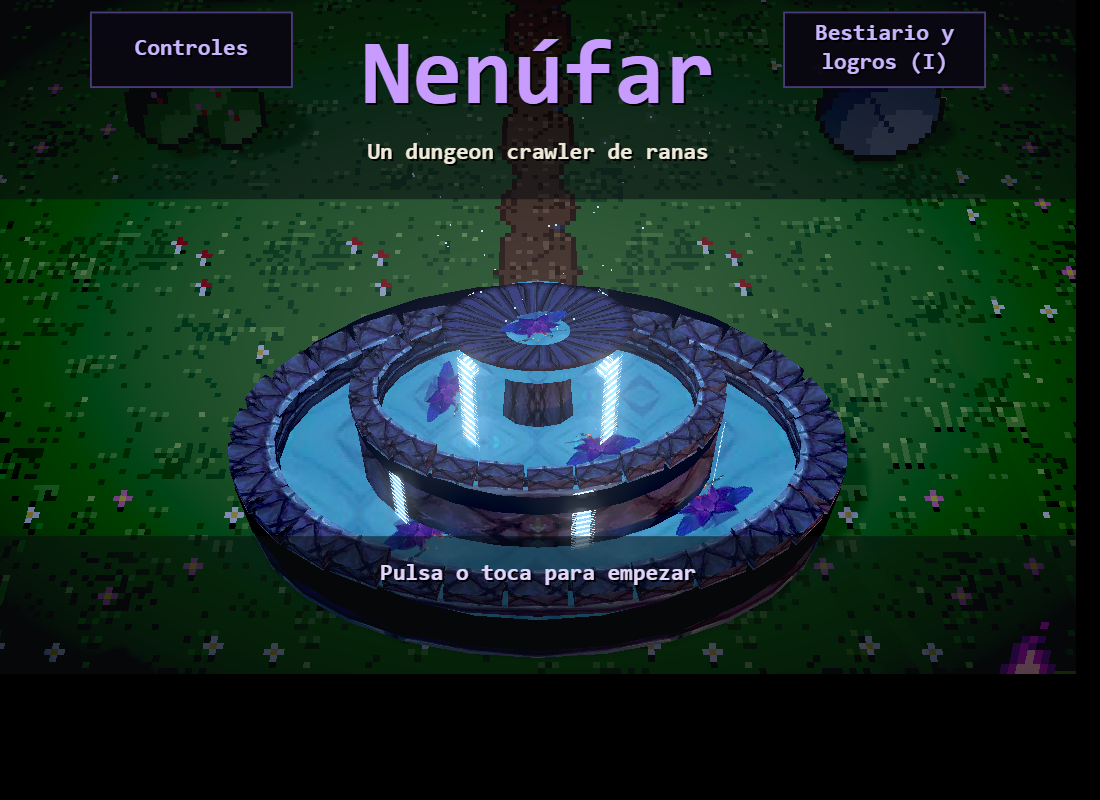
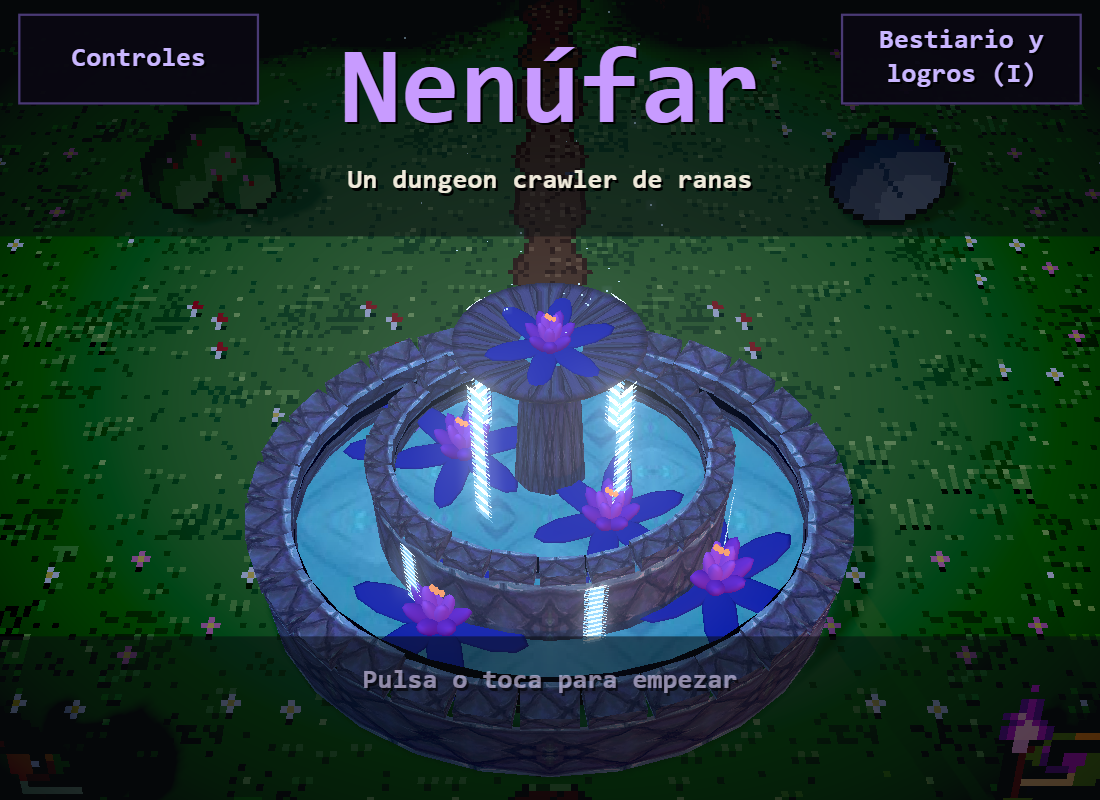
Fuente: nenúfares con pétalos en 3D, taza más alta, piedra con luz propia y base más redonda

diff --git a/src/render/mundo/fuente.ts b/src/render/mundo/fuente.ts
@@ -6,6 +6,10 @@ type AjustesFuente = Hd2dJson['fuente'];
 
 const BASE = import.meta.env.BASE_URL;
 const CARAS = 28;
+/** Luz propia de la piedra: sin ella, la pared que da a la sombra se ve negra. */
+const LUZ_PIEDRA = 0x2a3048;
+/** Altura de la taza de arriba, y de su agua. */
+const ALTO_TAZA = 1.12;
 
 /** Textura de `public/assets/sprites/fuente/` (recortes de la imagen de referencia), que se repite sin costuras. */
 function cargar(nombre: string, repetirX: number, repetirY: number): THREE.Texture {
@@ -49,13 +53,18 @@ export function crearFuente(
   // Los pisos se estiran a lo alto: vista desde arriba, la fuente se leía como una piscina baja.
   grupo.scale.y = 1.4;
   const piedra = new THREE.MeshLambertMaterial({
-    map: cargar('piedra', 4, 1),
+    map: cargar('piedra', 8, 1),
+    emissive: LUZ_PIEDRA,
     side: THREE.DoubleSide,
   });
-  const borde = new THREE.MeshLambertMaterial({ map: cargar('piedra', 0.5, 0.5) });
+  const borde = new THREE.MeshLambertMaterial({
+    map: cargar('piedra', 0.5, 0.5),
+    emissive: LUZ_PIEDRA,
+  });
   const juntas = new THREE.MeshLambertMaterial({ color: 0x1c1e2c });
   const piedraTaza = new THREE.MeshLambertMaterial({
     map: cargar('piedra', 10, 0.3),
+    emissive: LUZ_PIEDRA,
     side: THREE.DoubleSide,
   });
   const texAgua = cargar('agua', 3, 2);
@@ -150,9 +159,9 @@ export function crearFuente(
 
   // Columna y taza de arriba
   const columna = poner(
-    new THREE.Mesh(new THREE.CylinderGeometry(0.1, 0.14, 0.52, 10), piedra),
+    new THREE.Mesh(new THREE.CylinderGeometry(0.1, 0.14, ALTO_TAZA - 0.43, 10), piedra),
     0,
-    0.69,
+    0.43 + (ALTO_TAZA - 0.43) / 2,
     0,
   );
   columna.scale.set(rx * 0.9, 1, rz * 0.9);
@@ -171,11 +180,11 @@ export function crearFuente(
       piedraTaza,
     ),
     0,
-    0.9,
+    ALTO_TAZA,
     0,
   );
   taza.scale.set(rx * 0.85, 1, rz * 0.85);
-  const aguaC = 0.99;
+  const aguaC = ALTO_TAZA + 0.09;
   const laminaC = poner(
     new THREE.Mesh(new THREE.CircleGeometry(0.27, 20), agua),
     0,
@@ -205,20 +214,86 @@ export function crearFuente(
       grupo.add(m);
     }
   };
-  cascada(0.3, 1.0, aguaB, 4, Math.PI / 4);
+  cascada(0.3, ALTO_TAZA + 0.1, aguaB, 4, Math.PI / 4);
   cascada(0.6, 0.64, aguaA, 6, 0.3);
 
-  // Nenúfares tumbados sobre el agua de cada piso
-  const materialNenufar = new THREE.MeshBasicMaterial({
-    map: cargar('nenufar', 1, 1),
-    transparent: true,
-    alphaTest: 0.35,
+  // Nenúfares con volumen: hojas planas sobre el agua y, encima, dos coronas de pétalos y los pistilos
+  const hoja = new THREE.MeshLambertMaterial({
+    color: 0x3b44b8,
+    emissive: 0x161c60,
+    side: THREE.DoubleSide,
   });
+  const petalo = new THREE.MeshLambertMaterial({
+    color: 0x9a52e0,
+    emissive: 0x3a1478,
+    side: THREE.DoubleSide,
+  });
+  const petaloInterior = new THREE.MeshLambertMaterial({
+    color: 0xc47af0,
+    emissive: 0x581c98,
+    side: THREE.DoubleSide,
+  });
+  const pistilo = new THREE.MeshBasicMaterial({ color: 0xffa878 });
+  const forma = new THREE.SphereGeometry(1, 10, 6);
+  const pieza = (
+    padre: THREE.Group,
+    material: THREE.Material,
+    ang: number,
+    [largo, ancho, alto]: [number, number, number],
+    dist: number,
+    subida: number,
+    inclina: number,
+  ): void => {
+    const pivote = new THREE.Group();
+    pivote.rotation.y = ang;
+    pivote.position.y = subida;
+    const m = new THREE.Mesh(forma, material);
+    m.scale.set(largo, alto, ancho);
+    m.position.x = dist;
+    m.rotation.z = inclina;
+    pivote.add(m);
+    padre.add(pivote);
+  };
   const nenufar = (radio: number, ang: number, y: number, tam: number): void => {
-    const m = new THREE.Mesh(new THREE.PlaneGeometry(tam, tam * 0.56), materialNenufar);
-    m.rotation.set(-Math.PI / 2, 0, azar() * 6);
-    m.position.set(Math.cos(ang) * radio * rx, y + 0.012, Math.sin(ang) * radio * rz);
-    grupo.add(m);
+    const flor = new THREE.Group();
+    flor.position.set(Math.cos(ang) * radio * rx, y + 0.01, Math.sin(ang) * radio * rz);
+    flor.scale.setScalar(tam);
+    const giro = azar() * 6;
+    for (let i = 0; i < 6; i++) {
+      pieza(flor, hoja, giro + (i * Math.PI) / 3, [0.2, 0.075, 0.012], 0.19, 0.005, 0.06);
+    }
+    for (let i = 0; i < 7; i++) {
+      pieza(
+        flor,
+        petalo,
+        giro + 0.4 + (i * Math.PI * 2) / 7,
+        [0.1, 0.042, 0.03],
+        0.07,
+        0.035,
+        0.75,
+      );
+    }
+    for (let i = 0; i < 5; i++) {
+      pieza(
+        flor,
+        petaloInterior,
+        giro + (i * Math.PI * 2) / 5,
+        [0.08, 0.034, 0.026],
+        0.035,
+        0.07,
+        1.2,
+      );
+    }
+    for (const [x, z] of [
+      [0, 0],
+      [0.022, 0.01],
+      [-0.018, -0.014],
+    ] as const) {
+      const m = new THREE.Mesh(new THREE.SphereGeometry(0.014, 6, 4), pistilo);
+      m.position.set(x, 0.16, z);
+      flor.add(m);
+    }
+    grupo.add(flor);
   };
   for (const [radio, ang] of [
     [0.62, 0.5],
@@ -227,11 +302,11 @@ export function crearFuente(
     [0.6, 5.3],
     [0.2, 1.0],
   ] as const) {
-    nenufar(radio, ang, aguaA, 0.46);
+    nenufar(radio, ang, aguaA, 1.1);
   }
-  nenufar(0.3, 0.9, aguaB, 0.36);
-  nenufar(0.3, 3.5, aguaB, 0.36);
-  nenufar(0, 0, aguaC, 0.3);
+  nenufar(0.3, 0.9, aguaB, 0.9);
+  nenufar(0.3, 3.5, aguaB, 0.9);
+  nenufar(0, 0, aguaC, 0.7);
 
   // Chispas azules que suben de la taza
   const posiciones = new Float32Array(a.gotas * 3);
@@ -253,7 +328,7 @@ export function crearFuente(
         const t = (tiempo / (a.vidaGota * 4) + (fases[i] ?? 0)) % 1;
         const ang = angulos[i] ?? 0;
         posiciones[i * 3] = Math.cos(ang) * (0.1 + 0.35 * t) * rx;
-        posiciones[i * 3 + 1] = 1.05 + 0.8 * t;
+        posiciones[i * 3 + 1] = ALTO_TAZA + 0.2 + 0.8 * t;
         posiciones[i * 3 + 2] = Math.sin(ang) * (0.1 + 0.35 * t) * rz;
       }
       geoGotas.attributes.position!.needsUpdate = true;

diff --git a/tools/generadores/entorno/fuente_texturas.py b/tools/generadores/entorno/fuente_texturas.py
@@ -1,10 +1,9 @@
 """Texturas de la fuente en 3D, recortadas de la imagen de referencia (la 14 de `docs/superpowers/mockups/cauce-seco-referencias`):
-piedra y agua en mosaico espejo (para que no se vea la costura al envolverlas) y un nenúfar con transparencia.
-Salida: public/assets/sprites/fuente/{piedra,agua,nenufar}.png. Uso (desde la raíz del repo): python tools/generadores/entorno/fuente_texturas.py"""
+piedra y agua en mosaico espejo (para que no se vea la costura al envolverlas).
+Salida: public/assets/sprites/fuente/{piedra,agua}.png. Uso (desde la raíz del repo): python tools/generadores/entorno/fuente_texturas.py"""
 import os
 
-import numpy as np
-from PIL import Image, ImageEnhance, ImageFilter, ImageOps
+from PIL import Image, ImageEnhance, ImageOps
 
 REPO = os.path.abspath(os.path.join(os.path.dirname(os.path.abspath(__file__)), "..", "..", ".."))
 REF = os.path.join(REPO, "docs", "superpowers", "mockups", "cauce-seco-referencias", "14-fuente.png")
@@ -20,25 +19,10 @@ def espejo(im):
     return o
 
 
-def nenufar(im):
-    """Solo la flor y sus hojas (azul violeta y rosa), con el agua de alrededor transparente."""
-    a = np.array(im).astype(int)
-    r, g, b = a[:, :, 0], a[:, :, 1], a[:, :, 2]
-    flor = ((b > r + 25) & (g < 125) & (b > 110)) | ((r > 150) & (g > 90) & (b < 150))  # morado/azul y pistilos
-    mascara = Image.fromarray((flor * 255).astype("uint8")).filter(ImageFilter.MaxFilter(3)).filter(ImageFilter.MinFilter(3))
-    # Fuera de una elipse alrededor de la flor quedan restos de otras flores y de las piedras: se descartan
-    yy, xx = np.mgrid[0:im.height, 0:im.width]
-    dentro = ((xx - im.width / 2) / (im.width * 0.5)) ** 2 + ((yy - im.height * 0.58) / (im.height * 0.5)) ** 2 <= 1
-    out = im.convert("RGBA")
-    out.putalpha(Image.fromarray((np.array(mascara) * dentro).astype("uint8")))
-    return out
-
-
 if __name__ == "__main__":
     os.makedirs(SALIDA, exist_ok=True)
     ref = Image.open(REF).convert("RGB")
     # La piedra de la imagen es oscura y, con la luz de la sala, se hunde: se aclara antes de guardarla
     espejo(ImageEnhance.Brightness(ref.crop((330, 520, 430, 585)).resize((96, 62), Image.LANCZOS)).enhance(2.1)).save(os.path.join(SALIDA, "piedra.png"))
     espejo(ref.crop((282, 444, 338, 472)).resize((64, 32), Image.LANCZOS)).save(os.path.join(SALIDA, "agua.png"))
-    nenufar(ref.crop((330, 425, 445, 490)).resize((96, 54), Image.LANCZOS)).save(os.path.join(SALIDA, "nenufar.png"))
     print("ok")

diff --git a/CLAUDE.md b/CLAUDE.md
@@ -21,7 +21,7 @@ Si el diseño y este archivo discrepan, manda el documento; avisa de la discrepa
 - **Monstruos nuevos (2026-10-30), rama `monstruos-nuevos`: entrega 2 del Cauce Seco** (plan en `docs/superpowers/plans/2026-10-30-monstruos-nuevos.md`). **Jabalí** y **Cuervo** entran en el Bosque y el **Lobo** en la Cripta; el **Espectro** sale de la Cripta y queda con `oculto: true` hasta el Cauce Seco (así «Naturalista» no lo pide). Sprites de 32×32 (el jabalí, 40×40) dibujados por script (`jabali.py`, que reduce su imagen de referencia y la repinta con la paleta del juego; `criaturas.py`: cuervo; `humanoides.py`: lobo), con las imágenes de `docs/superpowers/mockups/cauce-seco-referencias/` como guía; imagen de revisión en `docs/previews/monstruos_nuevos_x4.png`. Para regenerar solo los monstruos: `.venv\Scripts\python.exe tools\generadores\monstruos\generar.py` (nunca `generar_todo.py`) y luego `git checkout` de lo que reescriba sin necesidad (`espectro.png` y `golem.png` cambian de bytes aunque sean iguales). El bestiario pasa a 7 casillas por fila (21). Reequilibrado: lobo 54 PV/ataque 15/velocidad 8, jabalí 25 PV/ataque 7, cuervo ataque 6, PV iniciales de la ronin 46 y de la maga 40, ataque de monstruos en Fácil ×1,08 y recuperación en Difícil 0,44. Resultado (ronin / maga): Fácil 70 / 69, Normal 49 / 53, Difícil 32 / 32. Nota para el Cauce Seco: `tests/monstruos.test.ts` exige que los Dragones negros compartan sprite. **El arte lo tiene que aprobar Pedro** (el jabalí se rehízo cuatro veces tras sus comentarios; la comparación con su imagen está en `docs/previews/jabali_comparacion.png`).
 - **Arte del Cauce Seco (2026-10-30), rama `arte-cauce-seco` (PR #14, sin fusionar): entrega 3a** (plan en `docs/superpowers/plans/2026-10-30-arte-cauce-seco.md`). Solo arte, **sin datos todavía** (las fichas, los grupos y el equilibrado van en la 3d). Sprites nuevos en `public/assets/sprites/monstruos/`: `acolito` (40×40, reducido de su referencia), `salamandra` (40×40, a mano: oscura, con grietas de brasa y la cola ardiendo), `sacerdote` (48×48, a mano: alto y flaco, brazos abiertos, mangas rasgadas, ojos de rendija y el sol roto detrás; rehecho tras decir Pedro que no daba miedo), `oni` (48×48, reducido de su referencia con la máscara de calavera repintada encima y la sombra del suelo quitada como fondo) y `dragon_fuego` (64×48, reducido de su referencia; **recurso sin uso**: el Dragón negro se mantiene en las cuatro zonas). El **Dragón negro** se rehízo más fiero (cuernos de hueso, colmillos, cuerpo más negro, halo rojo en el ojo, brasas). `tools/generadores/monstruos/reducir.py` es el método para sacar un sprite de una imagen (quita el fondo, reduce con `brillo`/`saturacion`/`contraste`, limpia la silueta y pone contorno); el aviso «toca el borde del cuadro» de `generar.py` vigila los monstruos de `VIGILADOS`. Pedro pidió que el arte sea **sobrio y oscuro, no infantil** (sin ojos grandes y redondos ni naranjas lisos). Test de formato: `tests/hojas_cauce.test.ts`. Imagen de revisión: `docs/previews/cauce_monstruos_x3.png`. **El arte lo tiene que aprobar Pedro.**
 - **La zona del Cauce Seco (2026-10-30), rama `cauce-seco-zona` (sale de `arte-cauce-seco`): entrega 3b, hecha y subida, sin fusionar ni activar** (plan en `docs/superpowers/plans/2026-10-30-zona-cauce-seco.md`). **La zona sigue sin estar en `zonas.json`**: `cauce` solo aparece en `hd2d.json`, `sonido.json`, los tilesets, las plantillas, `main.ts` (visor de desarrollo) y los tests. Qué hay: tileset `cauce` (`tools/generadores/entorno/cauce.py`: muros de obsidiana violácea con hornacina de aro de fuego y veta de brasa, puertas con aro de fuego, suelo de lecho pardo con guijarros y brasas; pilar con grieta de brasa, roca, escombros, columna rota y `brasero` de dos fotogramas), autotiles `lecho` y `lava` (`zonas_auto.py`, `cauce_auto()`), 8 plantillas (`plantillas_cauce.json`, símbolo `B` = brasero; la fuente del descanso es el único agua, decisión mía **sin confirmar con Pedro**), aspecto 3D (`zonas.cauce` y `luces.brasero` en `hd2d.json`) y una pista de música `cauce` (tempo 90, re frigio, tres voces; **no se ha oído**, solo se comprobó que está bien formada). **Cómo verla:** `npm run dev` y abrir `?portada=cauce_combate_01` (o `cauce_descanso_01`, `cauce_jefe_01`, `cauce_tesoro_01`…); `&vista=x,z,ancho` acerca la cámara (solo en desarrollo). Imagen de revisión: `docs/previews/cauce_zona_x2.png`. **El mapa 3D cambió para todas las zonas (2026-10-30):** los muros del borde son cajas con el tile de remate arriba y el de cara en los lados (antes, ruido de tres colores; se quitaron `hiladas`, `porCasilla`, `irregular`, `salida` y `hueco` de `borde` en `hd2d.json`) y **todos los objetos son sprites de pie con su dibujo real** (se borró `crearModelo` y sus modelos de formas sencillas; quedan solo las barreras de las salidas, `crearBarrera`). Pedro lo pidió: «quiero que se vea como lo hemos diseñado». **Sin probar en el móvil ni en una partida** (solo con Edge sin cabeza en la portada, y no se vieron las Ruinas ni la Cripta). Pendiente: las puertas abiertas con su arco no se ven en 3D (se pintan como suelo). Falta 3c (equipo de nivel 4, textos, bestiario) y 3d (activar, fichas de datos, equilibrado).
-- **Jefes rehechos desde imágenes de Pedro (2026-10-30), en `cauce-seco-zona`:** el arte de los jefes sale ahora de sus imágenes de referencia (`docs/superpowers/mockups/cauce-seco-referencias/8` a `13`) con `reducir.py`, un módulo por jefe en `tools/generadores/monstruos/` y registrado en `PROPIOS`: `guardian_bosque.py` (clave `rey_limo`, que **ya se llama «Guardián del Bosque» en `monstruos.json`**, con su aviso y `tests/jefes.test.ts` cambiados; 64×48), `golem.py` (48×48), `reina_arana.py` (64×48), `senor_cripta.py` (48×48, imagen de la calavera con espada con la figura separada del fondo con un contorno a mano) y `rey_sin_charca.py` (64×48). Pedro: «los jefes con corona son muy infantiles», «quiero que se sientan jefes amenazantes, guardianes de su zona». Trucos que funcionaron: paleta fija (si no, el turquesa y el negro se hunden), afilar antes de reducir, dibujar a mano lo que se pierde (cuchillas de la cresta, calavera y ojos), recortar o comprimir la figura para ganar píxeles de ancho. Galería: `docs/previews/todos_monstruos.png`. **Fuente nueva (2026-10-30), 3D con volumen:** la fuente de descanso es un modelo 3D de tres pisos (`src/render/mundo/fuente.ts`: piedra con juntas, agua que brilla sin luz propia, cascadas que bajan, nenúfares tumbados sobre el agua y chispas que suben de la taza), con texturas recortadas de la imagen de Pedro `14-fuente.png` por `tools/generadores/entorno/fuente_texturas.py` (`public/assets/sprites/fuente/piedra.png`, `agua.png`, `nenufar.png`). Es el único objeto que sigue siendo un modelo 3D (con las barreras de las salidas); los demás son sprites de pie. Un primer intento como sprite plano (reduciendo la imagen y luego dibujándola a mano en `fountain()` de `comunes.py`, 96×64) le pareció «cutre» a Pedro: sin detalle y sin volumen. El sprite de `fountain()` queda solo para las vistas previas 2D. La colisión sigue siendo la elipse de `centroZ`, `radioX` y `radioZ` de `fuente` en `hd2d.json`. Captura: `docs/previews/fuente_3d.png` (`?portada=bosque_descanso_01&vista=10.5,5.4,6` en desarrollo). Límite: en combate cada sprite se dibuja al doble y por encima solo cabe hasta ~42 px (nombre y barra de turnos), así que un cuadro mayor de 48 de alto no sirve. **El Señor de la Cripta (negro, gris y rojo) y el Rey sin Charca (negro con fuego morado) ya no se parecen tanto, y el diseño dice que uno se transforma en el otro: Pedro no lo ha comentado.**
+- **Jefes rehechos desde imágenes de Pedro (2026-10-30), en `cauce-seco-zona`:** el arte de los jefes sale ahora de sus imágenes de referencia (`docs/superpowers/mockups/cauce-seco-referencias/8` a `13`) con `reducir.py`, un módulo por jefe en `tools/generadores/monstruos/` y registrado en `PROPIOS`: `guardian_bosque.py` (clave `rey_limo`, que **ya se llama «Guardián del Bosque» en `monstruos.json`**, con su aviso y `tests/jefes.test.ts` cambiados; 64×48), `golem.py` (48×48), `reina_arana.py` (64×48), `senor_cripta.py` (48×48, imagen de la calavera con espada con la figura separada del fondo con un contorno a mano) y `rey_sin_charca.py` (64×48). Pedro: «los jefes con corona son muy infantiles», «quiero que se sientan jefes amenazantes, guardianes de su zona». Trucos que funcionaron: paleta fija (si no, el turquesa y el negro se hunden), afilar antes de reducir, dibujar a mano lo que se pierde (cuchillas de la cresta, calavera y ojos), recortar o comprimir la figura para ganar píxeles de ancho. Galería: `docs/previews/todos_monstruos.png`. **Fuente nueva (2026-10-30), 3D con volumen:** la fuente de descanso es un modelo 3D de tres pisos (`src/render/mundo/fuente.ts`: piedra con juntas, agua que brilla sin luz propia, cascadas que bajan, nenúfares con volumen (hojas planas y dos coronas de pétalos 3D, sin textura) y chispas que suben de la taza), con texturas recortadas de la imagen de Pedro `14-fuente.png` por `tools/generadores/entorno/fuente_texturas.py` (`public/assets/sprites/fuente/piedra.png` y `agua.png`). Es el único objeto que sigue siendo un modelo 3D (con las barreras de las salidas); los demás son sprites de pie. Un primer intento como sprite plano (reduciendo la imagen y luego dibujándola a mano en `fountain()` de `comunes.py`, 96×64) le pareció «cutre» a Pedro: sin detalle y sin volumen. El sprite de `fountain()` queda solo para las vistas previas 2D. La colisión sigue siendo la elipse de `centroZ`, `radioX` y `radioZ` (1,4 × 1,1) de `fuente` en `hd2d.json`; se subió de 0,8 a 1,1 para que la base fuese más redonda y los tests de plantillas siguen pasando. Captura: `docs/previews/fuente_3d.png` (`?portada=bosque_descanso_01&vista=10.5,5.4,6` en desarrollo). Límite: en combate cada sprite se dibuja al doble y por encima solo cabe hasta ~42 px (nombre y barra de turnos), así que un cuadro mayor de 48 de alto no sirve. **El Señor de la Cripta (negro, gris y rojo) y el Rey sin Charca (negro con fuego morado) ya no se parecen tanto, y el diseño dice que uno se transforma en el otro: Pedro no lo ha comentado.**
 - **Menús nuevos de combate e inventario (2026-10-26)**, rama `menus-nuevos`: estilo de Octopath (doble filete con rombos, brillo y rombo de cursor) en lavanda de Nenúfar, con la barra de PX en verde (`src/render/marco.ts`, colores en `PALETA`). Combate: panel abajo en dos columnas (lista con el coste y, a la derecha, qué hace lo elegido y la ficha de la heroína); la escena sube para no tapar a ningún jefe; sin botón «i» (la descripción está siempre a la vista). Inventario: lista a la izquierda (Heroína, Objetos, Equipo, Mejorar, Ajustes; Seguir y Salir abajo) y la sección a la derecha. Toque: dos toques (el primero elige y dice qué hace) en habilidades, objetos y enemigo; uno en lo demás (`src/core/menu.ts`). Diseño en `docs/superpowers/specs/2026-10-26-menus-design.md`, bocetos en `docs/superpowers/mockups/`; la disposición A (lista junto a quien actúa) queda como idea.
 - **Estilo lavanda en todas las pantallas (2026-10-27), rama `estilo-pantallas`.** Elegir rana, nombre, dificultad, puntos, equipo, portada, bestiario y logros, controles, mensajes, cartel de victoria, avisos del HUD y minimapa usan `src/render/marco.ts` (`dibujarFondo`, `dibujarCabecera`, `dibujarCaja`, `dibujarMarco`, `dibujarFila`, `PALETA`). `dibujarMenu` (botones) ya pinta cajas lavanda; `rectOpcion` sigue en uso. Quedan dorados solo en arte (mochila, modelos 3D). **Niebla (2026-10-27):** en el mapa el desenfoque ya no sigue a la heroína: la zona jugable se ve nítida y solo se emborronan los árboles de alrededor (`src/render/mundo/desenfoque.ts`, números en `bordes` de `hd2d.json`: `muro` 1, `fuerza` 6; con `muro` 2 la heroína sale borrosa al pegarse al borde). El combate y la portada siguen con el tilt-shift.
 - **Pantalla completa y sala grande (2026-10-27), rama `pantalla-completa`, publicada.** El mapa 3D y el canvas 2D cubren toda la ventana. La sala es de 21×13 tiles (672×416, `SALA_ANCHO`/`SALA_ALTO` en `src/render/pantalla.ts`) y se escala a todo lo que cabe, sin múltiplo entero. El canvas 2D tiene dos formas de colocarse (`fijarModo`, `colocarContexto`, `aLogico`): «ventana» (el mapa: HUD arriba a los lados, minimapa a la izquierda de la mochila con escala entera según el ancho libre, `ESCALA_HUD` 0,75) y «menú» (todo lo demás: la interfaz de 480×352 centrada; los fondos llenan `area`). Cada escena dice con `ventana` si dibuja en coordenadas de ventana y con `conMundo` si usa el 3D (si no, se oculta). El panel de acción del combate se dibuja a `PANEL_ESCALA` (`aPanel` para el toque; 0,8 se quedaba pequeño para el dedo, desde 2026-10-29 es 1). Decorado de fuera de la sala en `crearExterior` (`borde.ts`, `exterior` de `hd2d.json`). Las plantillas (24) se ensancharon con un script y se les repartió decorado al azar con semilla: sin retocar a mano. Pendiente: el fundido entre salas solo cubre la ventana del mapa pero no probado en móvil; Ruinas y Cripta, exterior muy plano; Pedro tiene que probarlo en el móvil.
